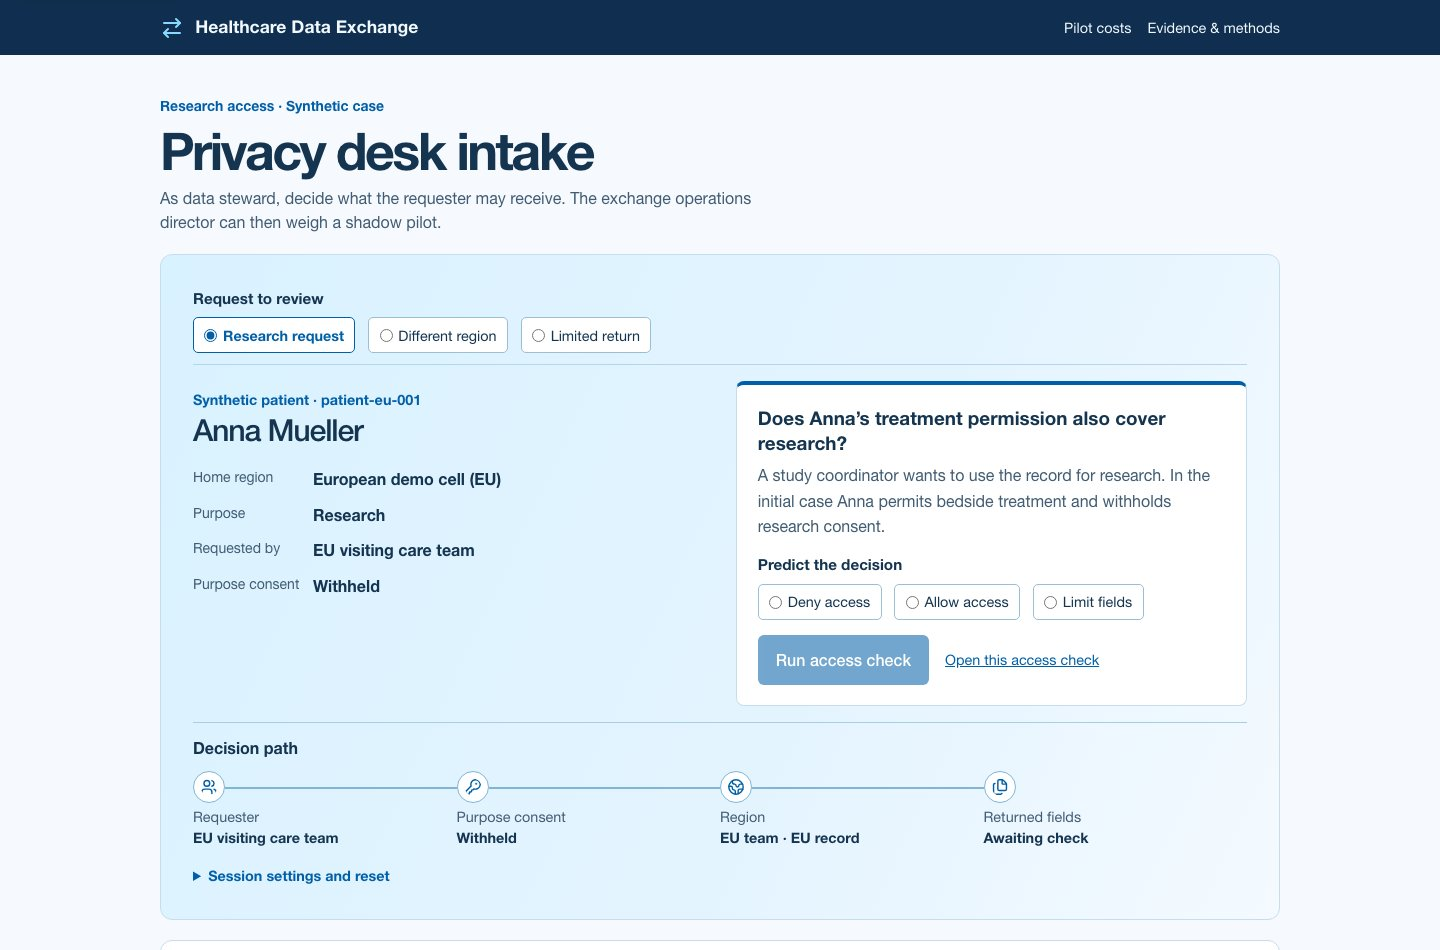
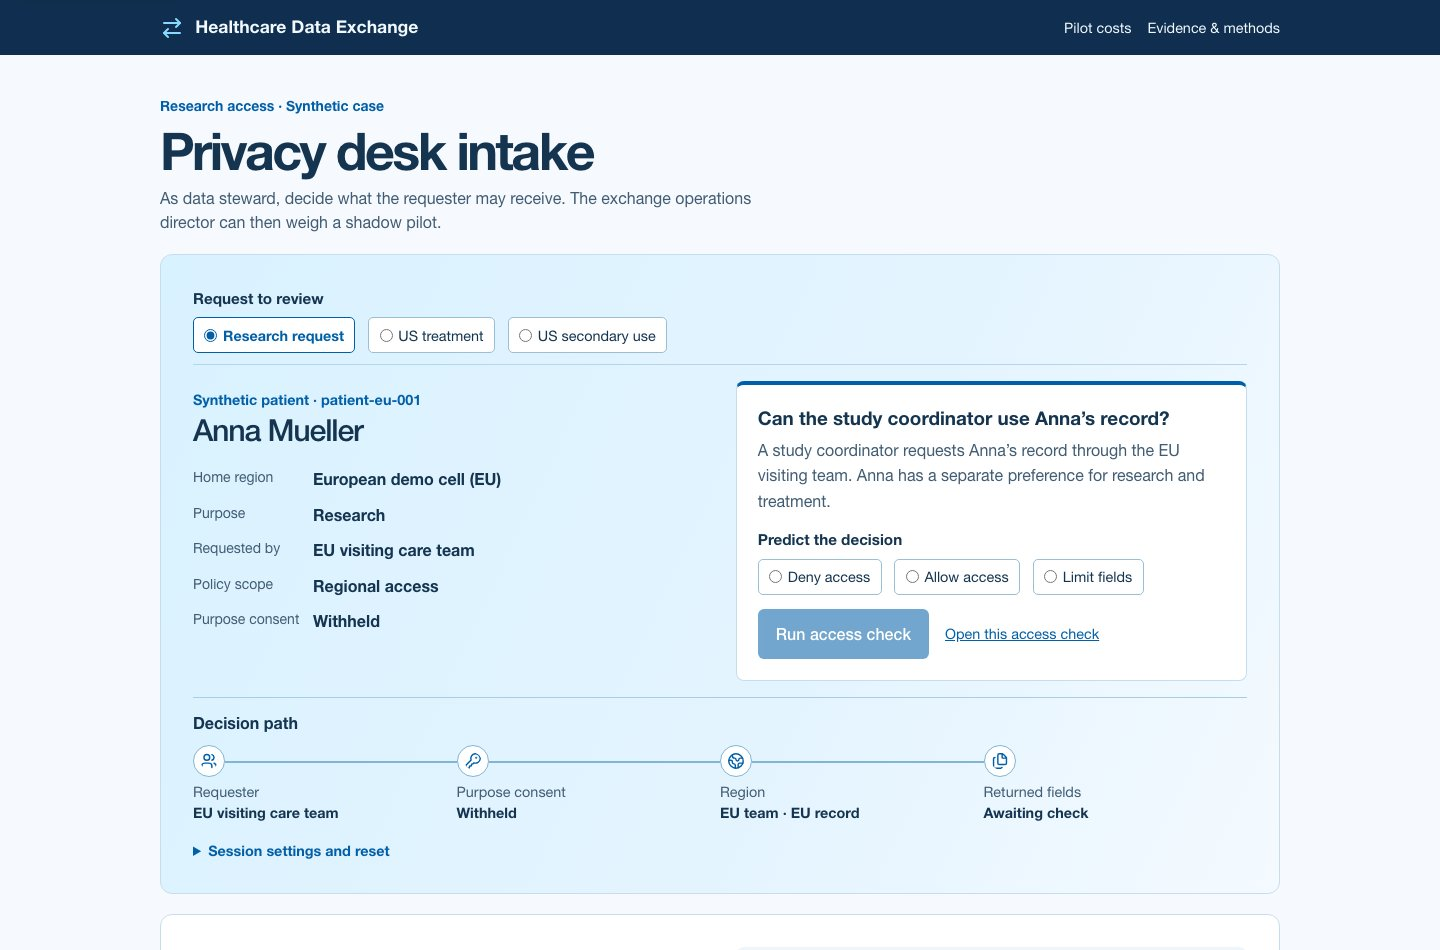
Distinguish a local consent decision from endpoint evidence

diff --git a/web/src/components/clinical/pilot-case.tsx b/web/src/components/clinical/pilot-case.tsx
@@ -11,15 +11,15 @@ import { WalkthroughLauncher } from "@/components/walkthrough/guided-walkthrough
 import styles from "./pilot-case.module.css";
 
 const comparisons = [
-  { label: "Research request", purpose: "research", requester: "eu-visiting", question: "Does Anna’s treatment permission also cover research?", detail: "A study coordinator wants to use the record for research. In the initial case Anna permits bedside treatment and withholds research consent." },
-  { label: "Different region", purpose: "treatment", requester: "us-home", question: "Can the US home team read the same record for treatment?", detail: "Anna’s record belongs to the European cell. Keep treatment consent in place and see what changes when the requester is in the United States." },
-  { label: "Limited return", purpose: "derivative", requester: "us-clinician", question: "Which fields can the permitted US team receive?", detail: "The fixture gives one US team permission to request a limited derivative. Compare the returned fields with a full same-region response." },
-] satisfies { label: string; purpose: DemoPurpose; requester: CredentialProfile; question: string; detail: string }[];
+  { label: "Research request", purpose: "research", requester: "eu-visiting", scope: "Regional access", question: "Can the study coordinator use Anna’s record?", detail: "A study coordinator requests Anna’s record through the EU visiting team. Anna has a separate preference for research and treatment." },
+  { label: "US treatment", purpose: "treatment", requester: "us-home", scope: "Regional access", question: "Can the US home team use Anna’s record?", detail: "A US team sends a treatment request for the EU-held record. Consider the team’s scope alongside Anna’s purpose-specific choice." },
+  { label: "US secondary use", purpose: "derivative", requester: "us-clinician", scope: "Derivative exception", question: "What can travel with this secondary-use request?", detail: "A US clinician requests a derivative of the European record. Use the requester’s scope and Anna’s current choice to predict the response." },
+] satisfies { label: string; purpose: DemoPurpose; requester: CredentialProfile; scope: string; question: string; detail: string }[];
 
 const purposeLabels: Record<DemoPurpose, string> = {
   research: "Research",
   treatment: "Treatment",
-  derivative: "Limited derivative",
+  derivative: "Derivative use",
 };
 
 export function CasePage() {
@@ -88,16 +88,18 @@ function ResearchRequest() {
   const [selection, setSelection] = useState(0);
   const [prediction, setPrediction] = useState<Outcome | null>(null);
   const [lesson, setLesson] = useState<Lesson | null>(null);
+  const [claim, setClaim] = useState<"browser" | "endpoint" | null>(null);
   const scenario = comparisons[selection];
   const patient = DEMO_PATIENTS.find(item => item.id === "patient-eu-001");
   const consent = useSyncExternalStore<boolean | null>(subscribeToConsent,
     () => getDemoConsent("patient-eu-001", scenario.purpose), () => null);
   const trace = lesson?.event?.after ?? lesson?.first;
   if (!patient) return null;
-  const team = requesterPresets.find(item => item.value === scenario.requester);
+  const team = scenario.requester === "us-clinician" ? "US clinician team" : requesterPresets.find(item => item.value === scenario.requester)?.label;
   const query = new URLSearchParams({ patient: patient.id, purpose: scenario.purpose, requester: scenario.requester });
   function runCheck() {
     if (!patient || !prediction) return;
+    setClaim(null);
     setLesson({ prediction, first: checkRequest(patient.id, scenario.purpose, scenario.requester) });
   }
   function replayConsent() {
@@ -106,6 +108,7 @@ function ResearchRequest() {
     const update = simulateConsent(patient.id, scenario.purpose, granted);
     if (update.ok) {
       const after = checkRequest(patient.id, scenario.purpose, scenario.requester);
+      setClaim(null);
       setLesson({ ...lesson, event: { before: trace, after, granted } });
     }
   }
@@ -113,6 +116,7 @@ function ResearchRequest() {
     setSelection(index);
     setPrediction(null);
     setLesson(null);
+    setClaim(null);
   }
   function resetSession() {
     resetSelectedPatient();
@@ -137,7 +141,8 @@ function ResearchRequest() {
         <dl className={styles.facts}>
           <div><dt>Home region</dt><dd>{patient.organization} ({patient.region})</dd></div>
           <div><dt>Purpose</dt><dd>{purposeLabels[scenario.purpose]}</dd></div>
-          <div><dt>Requested by</dt><dd>{team?.label}</dd></div>
+          <div><dt>Requested by</dt><dd>{team}</dd></div>
+          <div><dt>Policy scope</dt><dd>{scenario.scope}</dd></div>
           <div><dt>Purpose consent</dt><dd>{consent === null ? "Loading preference" : consent ? "Granted" : "Withheld"}</dd></div>
         </dl>
       </div>
@@ -161,7 +166,7 @@ function ResearchRequest() {
       <figure className={styles.trace} aria-label="Synthetic access decision path" aria-live="polite">
         <figcaption>Decision path{lesson?.event ? lesson.event.granted ? " after Anna’s grant" : " after Anna’s withdrawal" : ""}</figcaption>
         <ol>
-          <li><Users aria-hidden="true" /><span>Requester</span><strong>{team?.label}</strong></li>
+          <li><Users aria-hidden="true" /><span>Requester</span><strong>{team}</strong></li>
           <li><KeyRound aria-hidden="true" /><span>Purpose consent</span><strong>{consent === null ? "Loading" : consent ? "Granted" : "Withheld"}</strong></li>
           <li><Globe2 aria-hidden="true" /><span>Region</span><strong>{scenario.requester.startsWith("us-") ? "US team · EU record" : "EU team · EU record"}</strong></li>
           <li><Files aria-hidden="true" /><span>Returned fields</span><strong>{trace ? trace.fields.length ? trace.fields.join(", ") : "None" : "Awaiting check"}</strong></li>
@@ -179,6 +184,23 @@ function ResearchRequest() {
             <p>{lesson.event.after.message}</p>
           </> : <FieldReceipt title="Current check" check={lesson.first} />}
         </div>
+        {lesson.event && <div className={styles.proof}>
+          <h4>Evidence for the pilot record</h4>
+          <dl>
+            <div><dt>Patient event</dt><dd>Anna’s synthetic {lesson.event.granted ? "grant" : "withdrawal"} for {scenario.purpose}</dd></div>
+            <div><dt>Access check</dt><dd>Browser fixture · {lesson.event.after.outcome}</dd></div>
+            <div><dt>Receiving gateway</dt><dd>No endpoint observation</dd></div>
+          </dl>
+          <fieldset><legend>Which claim can you sign off?</legend>
+            <button type="button" aria-pressed={claim === "browser"} onClick={() => setClaim("browser")}>{lesson.event.after.fields.length ? "This browser replay returned the listed fields" : "This browser replay withheld the fields"}</button>
+            <button type="button" aria-pressed={claim === "endpoint"} onClick={() => setClaim("endpoint")}>The receiving endpoint enforced it</button>
+          </fieldset>
+          <div role="status" aria-atomic="true">{claim && <>
+            <strong>{claim === "browser" ? "Supported by the browser receipt." : "Request endpoint evidence before signing."}</strong>
+            <p>To verify propagation, correlate the recorded consent change with authenticated reads of the same patient, purpose and team at each receiving endpoint. Check the response status and returned fields. Measuring delay also requires comparable event and observation timestamps.</p>
+            <p>The repository’s separate Compose procedure changes research consent for patient-eu-002 and polls one gateway for 403, then 200 after a grant. This case did not run that probe. <a href="https://github.com/SafetyMP/Healthcare-Data-Exchange/blob/main/scripts/demo.sh">Inspect the gateway probe</a></p>
+          </>}</div>
+        </div>}
       </section>}
       <details className={styles.session}>
         <summary>Session settings and reset</summary>

diff --git a/web/tests/e2e/demo.spec.ts b/web/tests/e2e/demo.spec.ts
@@ -22,16 +22,16 @@ test.describe("Static synthetic demo", () => {
   test("research desk presets open the matching access decision", async ({ page }) => {
     for (const [label, purpose, requester, outcome] of [
       ["Research request", "research", "eu-visiting", "Access blocked"],
-      ["Different region", "treatment", "us-home", "Access blocked"],
-      ["Limited return", "derivative", "us-clinician", "Access allowed"],
+      ["US treatment", "treatment", "us-home", "Access blocked"],
+      ["US secondary use", "derivative", "us-clinician", "Access allowed"],
     ]) {
       await page.goto("./#research-request");
       await page.getByRole("radio", { name: label, exact: true }).check();
       const intake = page.getByRole("region", { name: "Access request intake" });
       await expect(intake.getByRole("heading", { name: "Anna Mueller" })).toBeVisible();
-      const expectedPurpose = purpose === "derivative" ? "Limited derivative" : purpose;
+      const expectedPurpose = purpose === "derivative" ? "Derivative use" : purpose;
       await expect(intake.locator("dd").nth(1)).toHaveText(new RegExp(expectedPurpose, "i"));
-      const expectedTeam = requester === "us-clinician" ? "US care team · limited cross-region access" : requester === "us-home" ? "US home care team" : "EU visiting care team";
+      const expectedTeam = requester === "us-clinician" ? "US clinician team" : requester === "us-home" ? "US home care team" : "EU visiting care team";
       await expect(intake.locator("dd").nth(2)).toHaveText(expectedTeam);
       await expect(page.getByRole("button", { name: "Run access check" })).toBeDisabled();
       await intake.getByRole("radio", { name: "Limit fields", exact: true }).check();
@@ -72,13 +72,39 @@ test.describe("Static synthetic demo", () => {
     await expect(run).toBeDisabled();
     await expect(page.locator("#research-request dd").last()).toHaveText("Withheld");
 
-    await page.getByRole("radio", { name: "Different region" }).check();
+    await page.getByRole("radio", { name: "US treatment" }).check();
     await predict.check();
     await run.click();
     await page.getByRole("button", { name: "Replay Anna’s withdrawal" }).click();
     await page.getByRole("button", { name: "Replay Anna’s grant" }).click();
     await expect(page.getByRole("heading", { name: "After Anna’s grant · Deny access" })).toBeVisible();
     await expect(page.getByText(/different regions/, {exact: false}).first()).toBeVisible();
+  });
+
+  test("steward distinguishes a simulated consent receipt from evidence at the receiving endpoint", async ({ page }) => {
+    await page.goto("./");
+    const intake = page.getByRole("region", { name: "Access request intake" });
+    await expect(intake.getByRole("radio", { name: "Limited return", exact: true })).toHaveCount(0);
+    await intake.getByRole("radio", { name: "US secondary use", exact: true }).check();
+    await expect(intake.getByText("Derivative exception", { exact: true })).toBeVisible();
+    await expect(intake.getByText("id, resourceType", { exact: true })).toHaveCount(0);
+    await intake.getByRole("radio", { name: "Limit fields", exact: true }).check();
+    await intake.getByRole("button", { name: "Run access check" }).click();
+    await intake.getByRole("button", { name: "Replay Anna’s withdrawal" }).click();
+    const proof = intake.getByRole("group", { name: "Which claim can you sign off?" });
+    await expect(proof).toBeVisible();
+    await expect(intake.getByText("No endpoint observation", { exact: true })).toBeVisible();
+    const status = intake.getByRole("status");
+    await expect(status).toHaveText("");
+    const initialRegion = await status.elementHandle();
+    await proof.getByRole("button", { name: "The receiving endpoint enforced it" }).click();
+    expect(await initialRegion?.evaluate(node => node.isConnected && node.textContent?.includes("Request endpoint evidence before signing"))).toBe(true);
+    await expect(intake.getByText(/Request endpoint evidence before signing/)).toBeVisible();
+    await proof.getByRole("button", { name: "This browser replay withheld the fields" }).click();
+    await expect(intake.getByText(/Supported by the browser receipt/)).toBeVisible();
+    await intake.getByRole("button", { name: "Replay Anna’s grant" }).click();
+    await expect(intake.getByText(/Supported by the browser receipt/)).toHaveCount(0);
+    await expect(proof.getByRole("button", { name: "This browser replay returned the listed fields" })).toBeVisible();
   });
 
   test("pilot worksheet distinguishes staffing value, shortfall and incomplete inputs", async ({ page }) => {

diff --git a/web/src/components/clinical/pilot-case.module.css b/web/src/components/clinical/pilot-case.module.css
@@ -110,3 +110,15 @@
 .session { font-size: .9rem; color: var(--muted-foreground); }
 .session summary { color: var(--primary); font-weight: 600; }
 @media(max-width:650px) { .receipts { grid-template-columns: 1fr; } }
+
+.proof { margin-top: 1rem; padding: 1rem; border-left: 3px solid var(--primary); background: var(--card); border-radius: 4px; }
+.proof h4, .proof legend { font-weight: 650; }
+.proof dl { display: grid; grid-template-columns: repeat(3,minmax(0,1fr)); gap: .5rem; margin: .6rem 0 1rem; }
+.proof dt { color: var(--muted-foreground); font-size: .875rem; }
+.proof dd { margin: 0; line-height: 1.5; }
+.proof button { padding: .55rem .7rem; min-height: 44px; margin: 0 .5rem .4rem 0; color: var(--primary); border: 1px solid var(--primary); border-radius: 5px; }
+.proof button[aria-pressed="true"] { color: var(--primary-foreground); background: var(--primary); }
+.proof [role="status"] { padding-top: .55rem; max-width: 82ch; }
+.proof [role="status"] p { margin-top: .45rem; }
+.proof a { color: var(--primary); text-decoration: underline; }
+@media(max-width:650px) { .proof dl { grid-template-columns: 1fr; } }

diff --git a/README.md b/README.md
@@ -22,7 +22,7 @@ certification.
 
 ## Try the privacy desk case
 
-A study coordinator asks the exchange’s data steward for Anna Mueller’s synthetic record. The bedside team uses treatment access for a different purpose. Choose the research request, switch the requesting region, or inspect the limited derivative that another team can obtain. Predict whether the model will deny access, allow access or limit fields, then choose **Run access check**. Replay Anna’s grant or withdrawal to compare the fields released and withheld with the original decision. **Reset tab demo** restores the initial synthetic state. **Open this access check** carries the same request into the full workspace. [Open the research request](https://safetymp.github.io/Healthcare-Data-Exchange/#research-request)
+A study coordinator asks the exchange’s data steward for Anna Mueller’s synthetic record. The bedside team uses treatment access for a different purpose. Choose the research request, switch the requesting region, or inspect the limited derivative that another team can obtain. Predict whether the model will deny access, allow access or limit fields, then choose **Run access check**. Replay Anna’s grant or withdrawal to compare the fields released and withheld with the original decision. Decide which claim the steward can sign off using the patient event, browser receipt and available endpoint observations. The case provides no receiver timestamps or measured propagation delay. **Reset tab demo** restores the initial synthetic state. **Open this access check** carries the same request into the full workspace. [Open the research request](https://safetymp.github.io/Healthcare-Data-Exchange/#research-request)
 
 The exchange director can keep the manual desk, introduce a checklist, or test a policy check alongside staff decisions. The worksheet estimates how many reviewer minutes per eligible request would cover integration, training and support. Its starting values are illustrative. Before expanding, the steward checks whether a shadow recommendation would release an unauthorized field or hold an eligible request. The operations director then compares the time saved against the better manual or checklist baseline and decides whether the team could reuse that time. [Explore the pilot worksheet](https://safetymp.github.io/Healthcare-Data-Exchange/#pilot-costs)
 
